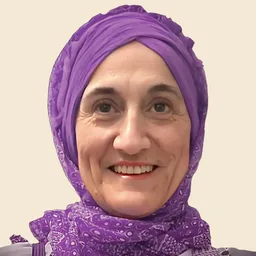
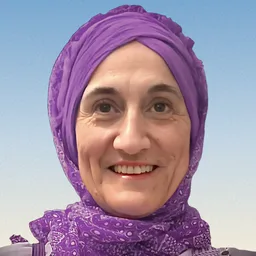
Foto final sin borde lima a 58px como reseñas; Teresa con cielo natural de fondo

diff --git a/index.html b/index.html
@@ -25,7 +25,7 @@
 <meta name="twitter:title" content="Diseño web para negocios locales — Tu Web Moderna">
 <meta name="twitter:description" content="Hago que la calidad de tu negocio se note en tu web. Tu web antes de pagar.">
 <meta name="twitter:image" content="https://tuwebmoderna.es/assets/img/og-poster.png">
-<link rel="stylesheet" href="assets/css/muestra.css?v=11">
+<link rel="stylesheet" href="assets/css/muestra.css?v=12">
 <script type="application/ld+json">
 {"@context":"https://schema.org","@type":"ProfessionalService",
 "name":"Tu Web Moderna","description":"Diseño web para negocios locales. Tu web antes de pagar: la ves terminada antes de pagar nada.",
@@ -202,7 +202,7 @@
         <article class="resena" itemscope itemtype="https://schema.org/Review">
           <div itemprop="itemReviewed" itemscope itemtype="https://schema.org/Service"><meta itemprop="name" content="Diseño web Tu Web Moderna"></div>
           <div class="resena__quien">
-            <img class="resena__foto" src="assets/img/resena-teresa-gomez.webp?v=3" alt="Teresa Gómez Portillo" width="58" height="58">
+            <img class="resena__foto" src="assets/img/resena-teresa-gomez.webp?v=4" alt="Teresa Gómez Portillo" width="58" height="58">
             <span><strong class="resena__nombre" itemprop="author">Teresa Gómez Portillo</strong><br>
             <span class="resena__negocio">Comunicación No Violenta · Málaga</span><br>
             <a class="resena__web" href="https://comunicacionyresoluciondeconflictos.com" target="_blank" rel="noopener">Visitar página web ↗</a></span>
@@ -268,7 +268,7 @@
       <h2 id="t-final">¿Hablamos de tu web?</h2>
       <div class="final__bloque">
       <div class="chat">
-        <img src="assets/img/marco-chat.webp?v=8" alt="Marco" width="72" height="72" loading="lazy">
+        <img src="assets/img/marco-chat.webp?v=8" alt="Marco" width="58" height="58" loading="lazy">
         <p class="burbuja">Escríbeme por WhatsApp y cuéntame qué negocio tienes. Te preparo tu web antes de pagar, sin compromiso.<strong>— Marco</strong></p>
       </div>
       <p class="final__cta"><a class="btn btn--lima" href="https://wa.me/34633548224?text=Hola%20Marco%2C%20me%20gustar%C3%ADa%20pedir%20la%20demo%20gratuita%20para%20mi%20negocio." target="_blank" rel="noopener"><svg viewBox="0 0 24 24" fill="none" stroke="currentColor" stroke-width="1.5" stroke-linecap="round" stroke-linejoin="round" aria-hidden="true"><path d="M17 12.5C17.2761 12.5 17.5 12.2761 17.5 12C17.5 11.7239 17.2761 11.5 17 11.5C16.7239 11.5 16.5 11.7239 16.5 12C16.5 12.2761 16.7239 12.5 17 12.5Z" fill="currentColor"/><path d="M12 12.5C12.2761 12.5 12.5 12.2761 12.5 12C12.5 11.7239 12.2761 11.5 12 11.5C11.7239 11.5 11.5 11.7239 11.5 12C11.5 12.2761 11.7239 12.5 12 12.5Z" fill="currentColor"/><path d="M7 12.5C7.27614 12.5 7.5 12.2761 7.5 12C7.5 11.7239 7.27614 11.5 7 11.5C6.72386 11.5 6.5 11.7239 6.5 12C6.5 12.2761 6.72386 12.5 7 12.5Z" fill="currentColor"/><path d="M12 22C17.5228 22 22 17.5228 22 12C22 6.47715 17.5228 2 12 2C6.47715 2 2 6.47715 2 12C2 13.8214 2.48697 15.5291 3.33782 17L2.5 21.5L7 20.6622C8.47087 21.513 10.1786 22 12 22Z"/></svg>Pide tu web gratis</a></p>

diff --git a/assets/css/muestra.css b/assets/css/muestra.css
@@ -179,9 +179,9 @@ img.resena__foto{object-fit:cover}
   font-size:2.4rem;line-height:1;color:var(--verde);margin-bottom:.3rem}
 
 /* final: mensaje personal de Marco */
-.final__bloque{--foto:72px;--gap:.9rem;--aire:1.25rem;max-width:26rem;margin:0 auto;padding:0 var(--aire)}
+.final__bloque{--foto:58px;--gap:.9rem;--aire:1.25rem;max-width:26rem;margin:0 auto;padding:0 var(--aire)}
 .chat{display:flex;gap:var(--gap);align-items:flex-start;text-align:left;margin:0 0 1.6rem}
-.chat img{width:var(--foto);height:var(--foto);border-radius:50%;object-fit:cover;border:3px solid var(--lima);flex:none}
+.chat img{width:var(--foto);height:var(--foto);border-radius:50%;object-fit:cover;flex:none}
 .burbuja{background:var(--papel);color:var(--tinta);border-radius:4px 18px 18px 18px;padding:1rem 1.15rem;margin:0;font-size:1.02rem;line-height:1.55;box-shadow:0 8px 22px rgba(0,0,0,.18)}
 .burbuja strong{display:block;margin-top:.5rem;font-size:.88rem;color:var(--verde)}
 .final__cta{margin:0}

diff --git a/404.html b/404.html
@@ -10,7 +10,7 @@
 <link rel="icon" type="image/png" sizes="32x32" href="favicon-32.png">
 <link rel="icon" type="image/png" sizes="16x16" href="favicon-16.png">
 <link rel="apple-touch-icon" href="apple-touch-icon.png">
-<link rel="stylesheet" href="assets/css/muestra.css?v=11">
+<link rel="stylesheet" href="assets/css/muestra.css?v=12">
 </head>
 <body>
 <a class="skip" href="#contenido">Saltar al contenido</a>

diff --git a/aviso-legal.html b/aviso-legal.html
@@ -12,7 +12,7 @@
 <link rel="icon" type="image/png" sizes="32x32" href="favicon-32.png">
 <link rel="icon" type="image/png" sizes="16x16" href="favicon-16.png">
 <link rel="apple-touch-icon" href="apple-touch-icon.png">
-<link rel="stylesheet" href="assets/css/muestra.css?v=11">
+<link rel="stylesheet" href="assets/css/muestra.css?v=12">
 </head>
 <body>
 <a class="skip" href="#contenido">Saltar al contenido</a>

diff --git a/condiciones-del-servicio.html b/condiciones-del-servicio.html
@@ -12,7 +12,7 @@
 <link rel="icon" type="image/png" sizes="32x32" href="favicon-32.png">
 <link rel="icon" type="image/png" sizes="16x16" href="favicon-16.png">
 <link rel="apple-touch-icon" href="apple-touch-icon.png">
-<link rel="stylesheet" href="assets/css/muestra.css?v=11">
+<link rel="stylesheet" href="assets/css/muestra.css?v=12">
 </head>
 <body>
 <a class="skip" href="#contenido">Saltar al contenido</a>

diff --git a/privacidad.html b/privacidad.html
@@ -12,7 +12,7 @@
 <link rel="icon" type="image/png" sizes="32x32" href="favicon-32.png">
 <link rel="icon" type="image/png" sizes="16x16" href="favicon-16.png">
 <link rel="apple-touch-icon" href="apple-touch-icon.png">
-<link rel="stylesheet" href="assets/css/muestra.css?v=11">
+<link rel="stylesheet" href="assets/css/muestra.css?v=12">
 </head>
 <body>
 <a class="skip" href="#contenido">Saltar al contenido</a>
